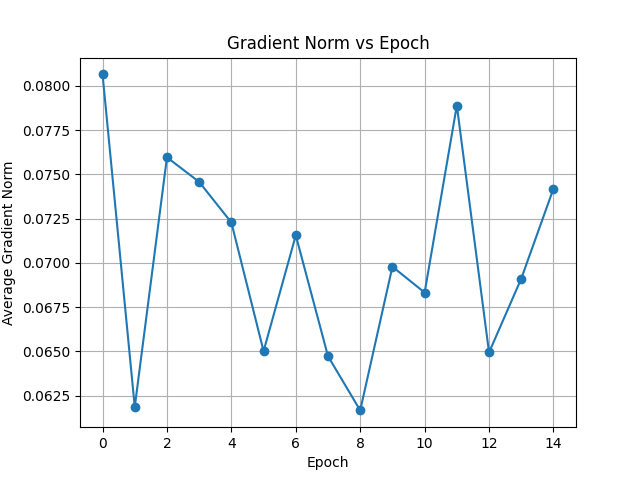
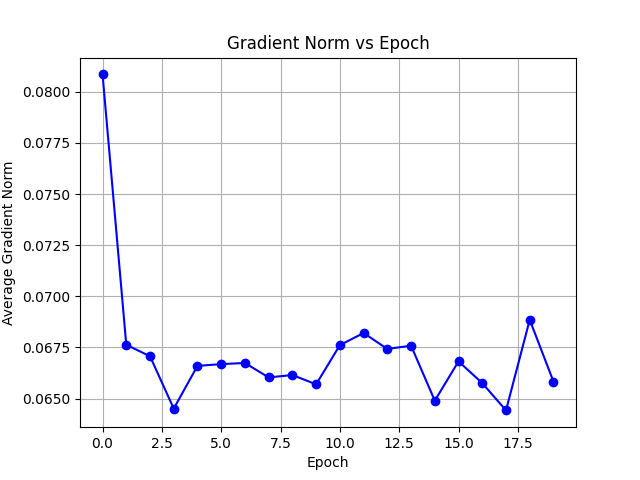
added loss plot and saved best weights in pickle

diff --git a/project_SDA_part2.py b/project_SDA_part2.py
@@ -8,6 +8,10 @@ import matplotlib.pyplot as plt
 from tqdm import tqdm
 import pandas as pd
 import seaborn as sns
+import pickle
+import random
+
+images_path = os.path.join(os.getcwd(),'Images')
 
 #Caricamento dei dati
 def load_data(file_name):
@@ -17,7 +21,6 @@ def load_data(file_name):
     mat_dict = loadmat(file_name,appendmat = appendmat)
     x = []
     y = []
-
     for raw in mat_dict[file]:
         if file == "train":
             x_raw = raw[:-1]
@@ -28,7 +31,6 @@ def load_data(file_name):
             x.append(raw[:-1])
             y = None
             t_raw = raw[-1:]
-            
     print('Features vectors', len(x))
     print('Features per array', len(x[0]))
     if y is not None:
@@ -40,35 +42,28 @@ def load_data(file_name):
                 trues = trues + 1
             elif i == -1.0:
                 falses = falses + 1
-        print('Trues', trues)
-        print('Falses', falses)
+        print('N. of 1:', trues)
+        print('N. of -1:', falses)
     return x,y
 
 #Riduzione della dimensionalità
-
 def correlation_dimensionality_reduction(x, min_corr=0.75):
-
     X = pd.DataFrame.from_dict(x)
     # Step 1: Compute the correlation matrix
     corr_matrix = X.corr().abs()
-    
     # Step 2: Identify correlated variables
     upper = corr_matrix.where(pd.DataFrame(np.triu(np.ones(corr_matrix.shape), k=1)).astype(bool))
     to_drop = [col for col in upper.columns if any(upper[col] > min_corr)]
-    
     # Step 3: Remove correlated variables
     X_reduced = X.drop(columns=to_drop)
-    
     # Print information about deleted variables
     print(f"After correlation deleted {len(to_drop)} variables: {to_drop}")
-    
     return X_reduced,to_drop
 
 def drop_columns(x,columns_to_drop):
     X = pd.DataFrame.from_dict(x)
     X_reduced = X.drop(columns=columns_to_drop)
     return X_reduced
-
 
 def pca_dimensionality_reduction(X,file_path,min_variance=0.95):
     features_standardized = standardization(X)
@@ -85,16 +80,13 @@ def pca_dimensionality_reduction(X,file_path,min_variance=0.95):
     features_reduced = pca_reducer.fit_transform(features_standardized)
     return features_reduced,pca_reducer
 
-
 def standardization(features): 
     standard_scaler = preprocessing.StandardScaler()
     scaler_trained = standard_scaler.fit(features)
     features_standardized = scaler_trained.transform(features)
     return features_standardized
 
-
 def plot_variance(variance, cum_variance, interval, x_label, y_label,title,file_path):
-    
     plt.bar(interval, variance, alpha = 0.5, align='center', label = 'Individual variance')
     plt.step(interval, cum_variance, where='mid', label = 'Cumulative variance')
     plt.title(title)
@@ -105,76 +97,40 @@ def plot_variance(variance, cum_variance, interval, x_label, y_label,title,file_
     plt.savefig(file_path)
     plt.clf()
 
-
-# Sigmoid function
-def sigmoid(z):
-    z = np.clip(z, -500, 500)
-    return 1 / (1 + np.exp(-z))
-
-
-def compute_gradient(y, y_pred, X):
-    return np.dot(X.T, np.subtract(y_pred,y)) / len(y)
-
-
-def logistic_class_SGD(X, y, lr=0.01, n_epochs=10, file_path='gradient_vs_epoch.png'):
-    X = np.insert(X, 0, 1, axis=1)
-    m, n = X.shape
-    weights = np.random.randn(n)
-    
-    epoch_avg_gradients = []  # Store average gradients for each epoch
-    
-    for epoch in tqdm(range(n_epochs)):
-        epoch_gradients = []
-        
-        for i in range(m):
-            random_idx = np.random.randint(m)
-            xi = X[random_idx:random_idx+1]
-            yi = y[random_idx:random_idx+1]
-            y_pred = sigmoid(np.dot(xi, weights))
-            gradient = compute_gradient(yi, y_pred, xi)
-            weights -= lr * gradient
-            epoch_gradients.append(np.linalg.norm(gradient))
-        
-        epoch_avg_gradient = np.mean(epoch_gradients)
-        epoch_avg_gradients.append(epoch_avg_gradient)
-    
-    plot_gradients(epoch_avg_gradients, file_path)
-    return weights
-
-
 def compute_gradient_logisticLoss(y, X, beta):
     y = np.array(y)
     X = np.array(X)
-    #print('y',y.shape)
-    #print('x',X.shape)
-    #print('beta',beta.shape)
-    #beta = np.expand_dims(beta, 0)
-    return (-y * X.T) / (1 + np.exp(y * np.dot(X.T, beta)))
+    grad = (-y * X.T) / (1 + np.exp(y * np.dot(X.T, beta)))
+    loss = np.mean(np.log(1 + np.exp(-y * np.dot(X, beta))))
+    return grad, loss
 
 def logistic_class_SGD_logisticLoss(X, y, lr=0.01, n_epochs=10, file_path='gradient_vs_epoch.png'):
-    X = np.insert(X, 0, 1, axis=1)
     m, n = X.shape
     weights = np.random.normal(size=n)
     epoch_avg_gradients = []  # Store average gradients for each epoch
+    loss_history = []
     for epoch in tqdm(range(n_epochs)):
         epoch_gradients = []
+        losses = []
+        random_list = random.sample(range(0, m), m)
         for i in range(m):
-            random_idx = np.random.randint(m)
+            random_idx = random_list[i]
             xi = X[random_idx:random_idx+1]
             xi = np.reshape(xi, n)
             yi = y[random_idx:random_idx+1]
-            #wi = weights[random_idx:random_idx+1]
-            gradient = compute_gradient_logisticLoss(yi, xi, weights)
+            gradient, loss = compute_gradient_logisticLoss(yi, xi, weights)
             weights -= lr * gradient
             epoch_gradients.append(np.linalg.norm(gradient))
+            losses.append(np.linalg.norm(loss))
         epoch_avg_gradient = np.mean(epoch_gradients)
         epoch_avg_gradients.append(epoch_avg_gradient)
+        loss_history.append(np.mean(losses))
     plot_gradients(epoch_avg_gradients, file_path)
+    plot_losses(loss_history, lr)
     return weights
 
-
 def plot_gradients(gradient_norms, file_path):
-    plt.plot(range(len(gradient_norms)), gradient_norms, marker='o')
+    plt.plot(range(len(gradient_norms)), gradient_norms, marker='o', color='blue')
     plt.xlabel('Epoch')
     plt.ylabel('Average Gradient Norm')
     plt.title('Gradient Norm vs Epoch')
@@ -182,35 +138,32 @@ def plot_gradients(gradient_norms, file_path):
     plt.savefig(file_path)
     plt.clf()
 
+def plot_losses(loss_h, lr):
+    plt.plot(range(len(loss_h)), loss_h, marker='o', color='red')
+    plt.xlabel('Epoch')
+    plt.ylabel('Loss')
+    plt.title('Loss vs Epoch')
+    plt.grid(True)
+    plt.savefig(os.path.join(images_path,'loss_history_stepsize_'+str(lr)+'.png'))
+    plt.clf()
 
-def predict(X, weights):
-    X = np.insert(X, 0, 1, axis=1)
-    probabilities = sigmoid(np.dot(X, weights))
-    #probabilities = np.dot(X, weights)
-    return [1.0 if p > 0.5 else -1.0 for p in probabilities]
-
-def logistic_classifer(X, y, step_size=0.1, epochs=20,file_path='logistic_classifier.png'):
-    #weights = logistic_class_SGD(X, y, step_size, epochs,file_path)
+def logistic_classifer(X, y, step_size=0.1, epochs=15,file_path='logistic_classifier.png'):
     weights = logistic_class_SGD_logisticLoss(X, y, step_size, epochs,file_path)
-    predictions = predict(X, weights)
+    predictions = logistic_inference(X, weights)
     return predictions, weights
 
 def evaluate_step_sizes(X, y,step_sizes,epochs,file_path):
-
     pred_best = None
     beta_best = None
     highest_accuracy = 0
     best_step_size = None
     accuracies = []
-    
     for step_size in step_sizes:
         pred, beta = logistic_classifer(X, y, step_size=step_size,epochs=epochs,file_path=os.path.join(images_path,'gradient_epochs_with_step_size_'+str(step_size)+'.png'))
         vett = [1 if pred[i]==y[i] else 0 for i in range(len(y))]
         accuracy = sum(vett)/len(vett)
         print(f"Accuracy for step size {step_size}: {round(accuracy,3)}")
-
         accuracies.append(round(accuracy,3))
-
         # Store the best model
         if accuracy > highest_accuracy:
             highest_accuracy = accuracy
@@ -218,13 +171,11 @@ def evaluate_step_sizes(X, y,step_sizes,epochs,file_path):
             pred_best = pred
             best_step_size = step_size
     print(f"Best Logistic Classifier Accuracy with step size {best_step_size}: {highest_accuracy}")
-    
+    print('==============================================')
     plot_accuracy_step_sizes(accuracies,step_sizes,file_path)
-
     return pred_best, beta_best
 
 def plot_accuracy_step_sizes(accuracies,step_sizes,file_path):
-
     # Plotting
     plt.plot(range(len(step_sizes)), accuracies, marker='o')  # Change here
     plt.xlabel('Step Size')
@@ -232,28 +183,21 @@ def plot_accuracy_step_sizes(accuracies,step_sizes,file_path):
     plt.title('Accuracy vs Step Size')
     plt.grid(True)
     plt.xticks(range(len(step_sizes)), [str(s) for s in step_sizes])
-
     # Annotate each point
     for i, (x, y) in enumerate(zip(step_sizes, accuracies)):
         plt.annotate(str(y), (i, y))  # Use index i as x-coordinate
-
     plt.savefig(file_path)  # Save the plot to a file
     plt.clf()  # Clear the plot
 
-    
-
 # Inference function for new X values
-def logistic_inference(X_test, best_theta):
-
+def logistic_inference(X_test, best_beta):
     predictions = []
     for i, x_value in enumerate(X_test):
-        res = np.dot(x_value, best_theta)
-
+        res = np.dot(x_value, best_beta)
         if res > 0:
             predictions.append(1)
         else:
             predictions.append(-1)
-    print(f"len predictions {len(predictions)}")
     return predictions
     
 # 6. Regola di decisione
@@ -275,7 +219,6 @@ def to_ascii(binary_bytes):
     return ascii_chars
     
 def plot_correlation_matrix(x,filename):
-
     df = pd.DataFrame.from_dict(x)
     plt.figure("Correlation matrix")
     sns.heatmap(df.corr())
@@ -283,11 +226,8 @@ def plot_correlation_matrix(x,filename):
     plt.clf()
 
 if __name__ == "__main__":
-    
-    images_path = os.path.join(os.getcwd(),'Images')
     if os.path.exists(images_path) is False:
         os.makedirs(images_path)
-
     #load data
     print('==============================================')
     print("Train data:")
@@ -297,42 +237,45 @@ if __name__ == "__main__":
     print("Test data:")
     test_file_name = "Gruppo 3/test.mat"
     x_test,y_test = load_data(file_name=test_file_name)
-
     plot_correlation_matrix(x_train,filename=os.path.join(images_path,'correlation_matrix_before_dim_reduction.png'))
-    
     print('==============================================')
-    print("Dimensionality Reduction")
-    print("Correlation ")
+    print("Dimensionality Reduction...")
+    print('==============================================')
+    print("Correlation:")
     #reduce dimensionality
     x_corr_reduced,columns_dropped= correlation_dimensionality_reduction(x_train)
     x_test_corr_reduced = drop_columns(x_test,columns_dropped)
     print("Features arrays reduced:", len(x_corr_reduced))
     print("Features per train array reduced:", x_corr_reduced.shape[1])
+    print('==============================================')
     plot_correlation_matrix(x_corr_reduced,filename=os.path.join(images_path,'correlation_matrix_after_corr_reduction.png'))
-    print("PCA")
+    print("PCA:")
     x_corr_pca_reduced,pca_reducer = pca_dimensionality_reduction(x_corr_reduced,file_path=os.path.join(images_path,'dimensionality_reduction.png'))
-    
     plot_correlation_matrix(x_corr_pca_reduced,filename=os.path.join(images_path,'correlation_matrix_after_corr_and_pca_reduction.png'))
-    
     print("Features arrays reduced:", len(x_corr_pca_reduced))
     print("Features per train array reduced:", len(x_corr_pca_reduced[0]))
     print('==============================================')
-    print('Test')
-    #step sizes
-    step_sizes = [0.00001,0.0001,0.001, 0.01, 0.1, 1]
-    #find best logistic classifier
-    best_bias,best_beta = evaluate_step_sizes(x_corr_pca_reduced,y_train,step_sizes,epochs = 15,file_path=os.path.join(images_path,'accuracy on step size.png'))
-    best_beta = best_beta[1:]
-    #print(f"best beta:{best_beta}")
+    print('Test...')
+    if not os.path.exists('weights.pickle'):
+        #step sizes
+        step_sizes = [0.00001,0.0001,0.001, 0.01, 0.1, 1]
+        #find best logistic classifier
+        best_bias,best_beta = evaluate_step_sizes(x_corr_pca_reduced,y_train,step_sizes,epochs = 20,file_path=os.path.join(images_path,'accuracy on step size.png'))
+    else:
+        with open('weights.pickle', 'rb') as handle:
+            best_beta = pickle.load(handle)
     x_test_corr_pca_reduced = pca_reducer.transform(x_test_corr_reduced)
-    print("Lenght x test reduced:",len(x_test_corr_pca_reduced[0]))
+    print("Lenght array test set reduced:",len(x_test_corr_pca_reduced[0]))
+    print('==============================================')
     #predictions on test data
     predictions = logistic_inference(x_test_corr_pca_reduced,best_beta)
-    #print(predictions)
     #convert predictions to binary
     binary_bytes = decision_rule(predictions)
     #convert binary to ascii
     characters = to_ascii(binary_bytes)
-
     print(f"characters found :{characters}")
+    print('==============================================')
+    #optional saving
+    #with open('weights.pickle', 'wb') as handle:
+    #    pickle.dump(best_beta, handle)
 
